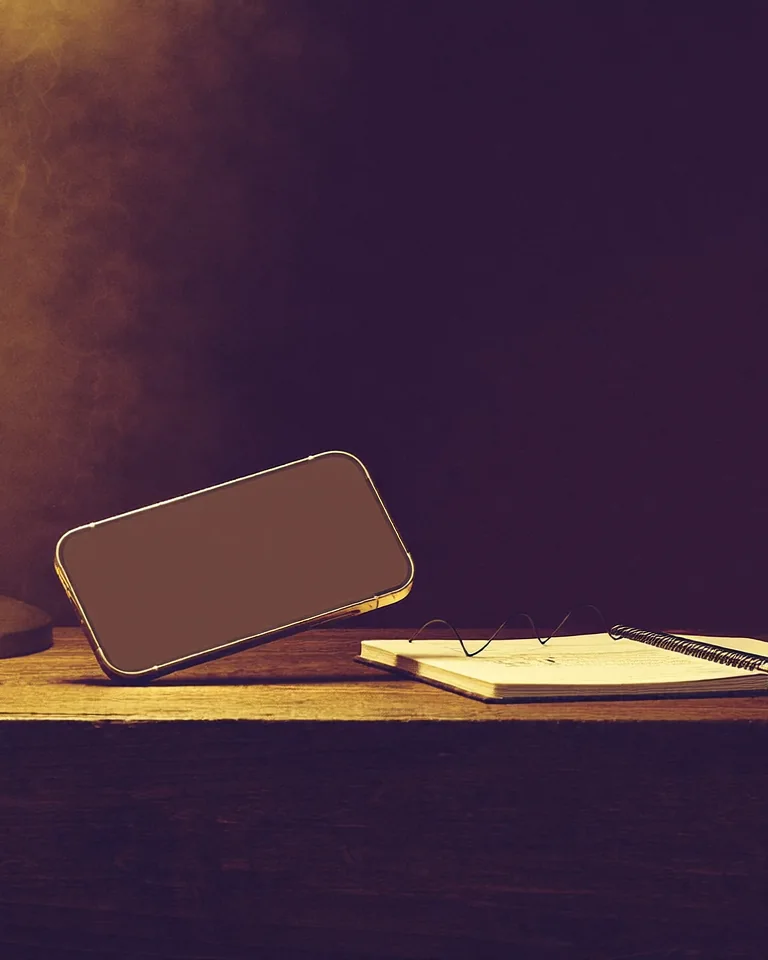
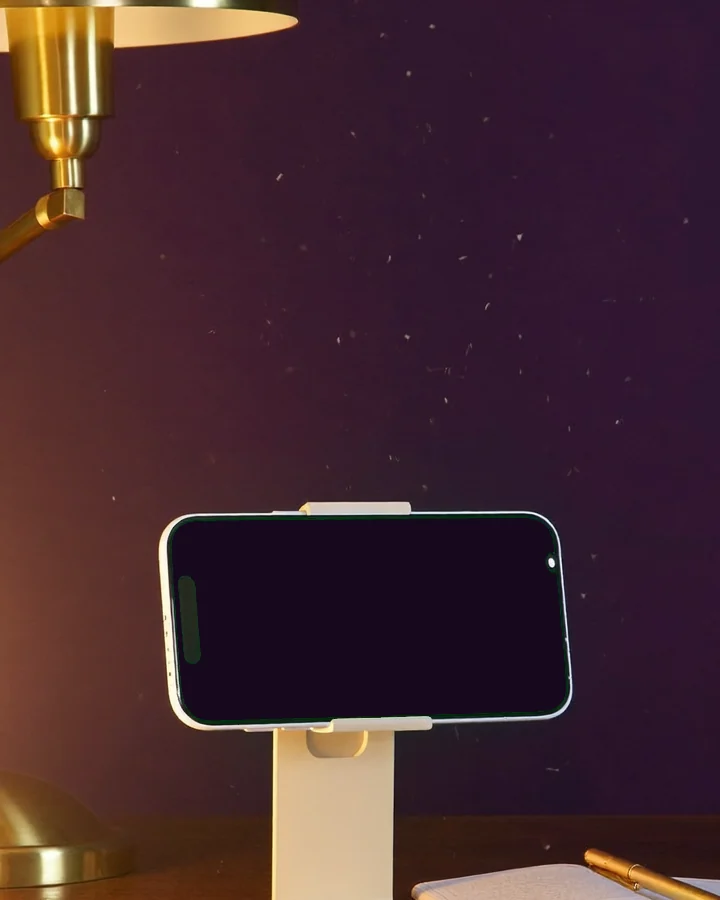
feat(servicios): chroma key real en tarjetas 01/02 + animaciones dentro de pantalla
- fotos nuevas (telefono y tablet con pantalla verde) recortadas y con el verde
  reemplazado por pantalla oscura via chroma key (Python)
- overlay SVG posicionado exacto sobre el bbox del chroma; glow interior,
  lift + sombra en hover, easing cinematografico
- tarjeta 03 mantiene version anterior hasta generar el caballete chroma

diff --git a/web/components/service-scenes.tsx b/web/components/service-scenes.tsx
@@ -1,75 +1,105 @@
 /**
  * Escenas animadas de las tarjetas de servicios (home).
- * Fondo: recortes de la foto real del atelier (mismo mundo que ImmersiveStory).
- * Overlay: SVG animado por CSS — se aviva al hacer hover en la tarjeta.
+ * Fondo: fotos del atelier con pantallas en chroma verde ya reemplazadas por
+ * pantalla oscura (Python). El SVG animado se posiciona EXACTO sobre cada
+ * pantalla usando el bounding box del chroma.
  */
+
+type ScreenBox = {
+  left: string
+  top: string
+  width: string
+  height: string
+}
 
 function SceneFrame({
   src,
-  viewBox = '0 0 300 375',
+  screen,
+  viewBox,
   children,
 }: {
   src: string
-  viewBox?: string
+  screen: ScreenBox
+  viewBox: string
   children: React.ReactNode
 }) {
   return (
     <div className="service-scene">
       <img src={src} alt="" loading="lazy" />
-      <svg viewBox={viewBox} aria-hidden="true" className="service-scene__overlay">
-        {children}
-      </svg>
+      <div className="service-scene__screen" style={screen}>
+        <svg viewBox={viewBox} aria-hidden="true" className="service-scene__overlay" preserveAspectRatio="none">
+          {children}
+        </svg>
+      </div>
     </div>
   )
 }
 
-/** 01 · Automatizaciones — hilo dorado que fluye entre nodos */
+/** 01 · Automatizaciones — flujo dorado corriendo por la pantalla del teléfono */
 export function AutomationScene() {
   return (
-    <SceneFrame src="/media/servicios/servicio-01-automatizaciones.webp">
+    <SceneFrame
+      src="/media/servicios/servicio-01-automatizaciones.webp"
+      screen={{ left: '23.9%', top: '57.6%', width: '54.6%', height: '22.3%' }}
+      viewBox="0 0 400 205"
+    >
       <path
         className="scene-flow"
-        d="M55 252 C 95 208, 140 256, 190 238 S 250 224, 264 246"
+        d="M40 130 C 90 80, 130 150, 200 105 S 320 80, 360 110"
         fill="none"
         stroke="#D4AF37"
-        strokeWidth={2}
+        strokeWidth={4}
         strokeLinecap="round"
       />
-      <circle cx={55} cy={252} r={6} fill="#D4AF37" className="scene-node" />
-      <circle cx={190} cy={238} r={6} fill="#D4AF37" className="scene-node scene-node--d2" />
-      <circle cx={264} cy={246} r={6} fill="#D4AF37" className="scene-node scene-node--d3" />
+      <circle cx={40} cy={130} r={11} fill="#D4AF37" className="scene-node" />
+      <circle cx={200} cy={105} r={11} fill="#D4AF37" className="scene-node scene-node--d2" />
+      <circle cx={360} cy={110} r={11} fill="#D4AF37" className="scene-node scene-node--d3" />
     </SceneFrame>
   )
 }
 
-/** 02 · Landing pages — página que se construye bloque a bloque */
+/** 02 · Landing pages — la página se construye dentro de la tablet */
 export function WebScene() {
   return (
-    <SceneFrame src="/media/servicios/servicio-02-webs.webp">
-      <g className="scene-build">
-        <rect x={78} y={96} width={144} height={92} rx={8} fill="rgba(123,63,160,0.5)" className="scene-block" />
-        <rect x={78} y={200} width={104} height={10} rx={5} fill="rgba(248,243,234,0.7)" className="scene-block scene-block--d2" />
-        <rect x={78} y={218} width={78} height={10} rx={5} fill="rgba(248,243,234,0.45)" className="scene-block scene-block--d3" />
-        <rect x={78} y={242} width={70} height={22} rx={11} fill="#D4AF37" className="scene-block scene-block--d4" />
-      </g>
+    <SceneFrame
+      src="/media/servicios/servicio-02-webs.webp"
+      screen={{ left: '7.2%', top: '12.8%', width: '79.2%', height: '66.5%' }}
+      viewBox="0 0 400 420"
+    >
+      <rect x={36} y={34} width={328} height={26} rx={8} fill="rgba(248,243,234,0.14)" className="scene-block" />
+      <rect x={36} y={76} width={200} height={128} rx={12} fill="url(#eln-hero)" className="scene-block scene-block--d2" />
+      <rect x={250} y={76} width={114} height={190} rx={12} fill="rgba(248,243,234,0.07)" className="scene-block scene-block--d2" />
+      <rect x={36} y={222} width={172} height={11} rx={5.5} fill="rgba(248,243,234,0.2)" className="scene-block scene-block--d3" />
+      <rect x={36} y={242} width={124} height={11} rx={5.5} fill="rgba(248,243,234,0.12)" className="scene-block scene-block--d3" />
+      <rect x={36} y={272} width={104} height={30} rx={15} fill="#D4AF37" className="scene-block scene-block--d4" />
+      <defs>
+        <linearGradient id="eln-hero" x1="0" y1="0" x2="1" y2="1">
+          <stop offset="0" stopColor="rgba(123,63,160,0.62)" />
+          <stop offset="1" stopColor="rgba(212,175,55,0.42)" />
+        </linearGradient>
+      </defs>
     </SceneFrame>
   )
 }
 
-/** 03 · Google Ads — gráfica dorada que sube + conversión */
+/** 03 · Google Ads — gráfica dorada sobre el tablero (pendiente foto chroma) */
 export function AdsScene() {
   return (
-    <SceneFrame src="/media/servicios/servicio-03-google-ads.webp" viewBox="0 0 300 225">
+    <SceneFrame
+      src="/media/servicios/servicio-03-google-ads.webp"
+      screen={{ left: '22%', top: '19%', width: '55%', height: '50%' }}
+      viewBox="0 0 400 300"
+    >
       <path
         className="scene-chart"
-        d="M78 148 L 112 130 L 142 138 L 172 112 L 200 96 L 222 68"
+        d="M40 250 L 110 210 L 170 226 L 235 160 L 300 120 L 356 60"
         fill="none"
         stroke="#D4AF37"
-        strokeWidth={2.4}
+        strokeWidth={5}
         strokeLinecap="round"
         strokeLinejoin="round"
       />
-      <circle cx={222} cy={68} r={6} fill="#D4AF37" className="scene-node" />
+      <circle cx={356} cy={60} r={11} fill="#D4AF37" className="scene-node" />
     </SceneFrame>
   )
 }

diff --git a/web/app/globals.css b/web/app/globals.css
@@ -699,18 +699,51 @@ html, body {
   z-index: 1;
 }
 
+/* capa-pantalla: calza exacto sobre el área chroma de cada foto */
+.service-scene__screen {
+  position: absolute;
+  z-index: 2;
+}
+
+.service-scene__screen::before {
+  content: '';
+  position: absolute;
+  inset: -6%;
+  background: radial-gradient(60% 60% at 50% 50%, rgb(212 175 55 / .14), transparent 75%);
+  opacity: 0;
+  transition: opacity .8s ease;
+  pointer-events: none;
+}
+
+.home-product:hover .service-scene__screen::before {
+  opacity: 1;
+}
+
 .service-scene__overlay {
   position: absolute;
   inset: 0;
   width: 100%;
   height: 100%;
-  opacity: .5;
-  filter: drop-shadow(0 0 10px rgb(212 175 55 / .35));
-  transition: opacity .6s ease;
+  opacity: .55;
+  filter: drop-shadow(0 0 10px rgb(212 175 55 / .4));
+  transition: opacity .7s cubic-bezier(0.22, 0.61, 0.36, 1);
 }
 
 .home-product:hover .service-scene__overlay {
   opacity: 1;
+}
+
+/* transición de tarjeta: lift suave + sombra profunda */
+.home-product__media {
+  overflow: hidden;
+  transition:
+    transform .7s cubic-bezier(0.22, 0.61, 0.36, 1),
+    box-shadow .7s cubic-bezier(0.22, 0.61, 0.36, 1);
+}
+
+.home-product:hover .home-product__media {
+  transform: translateY(-6px) scale(1.012);
+  box-shadow: 0 30px 60px rgb(26 15 61 / .35), 0 0 40px rgb(212 175 55 / .12);
 }
 
 /* interacción entre tarjetas: la activa brilla, las otras se calman */
